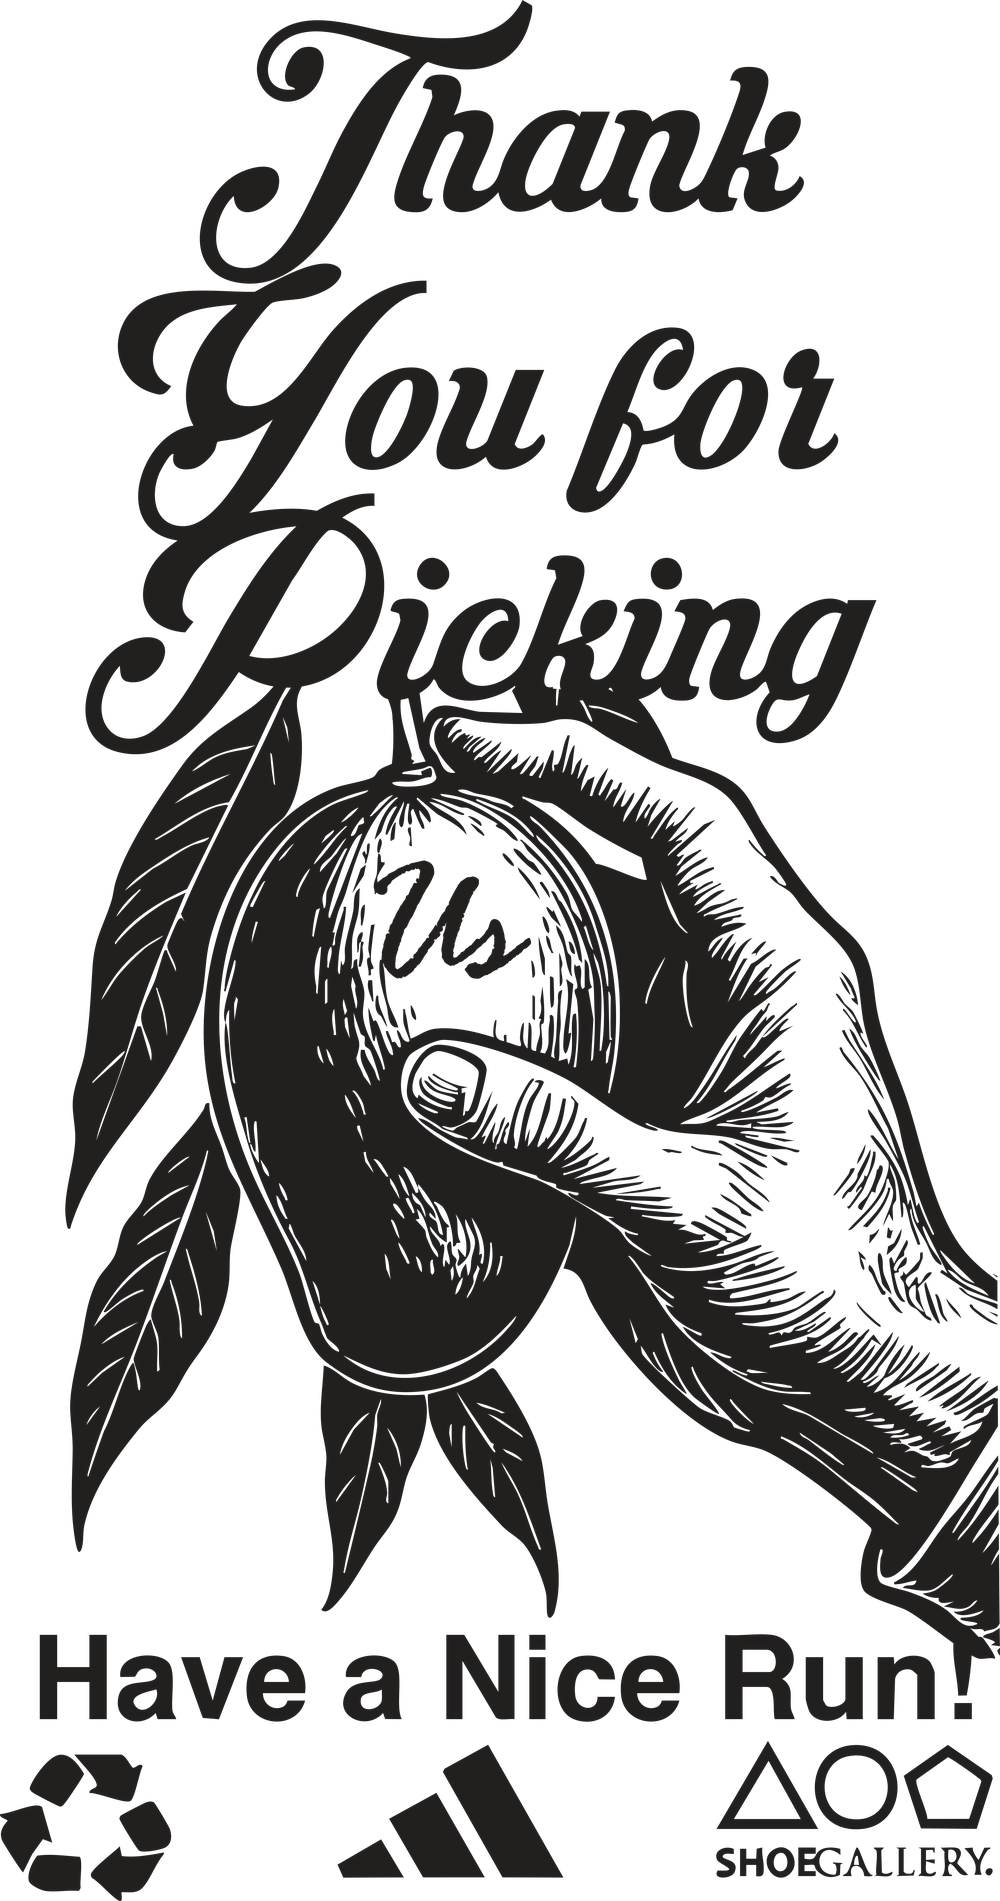
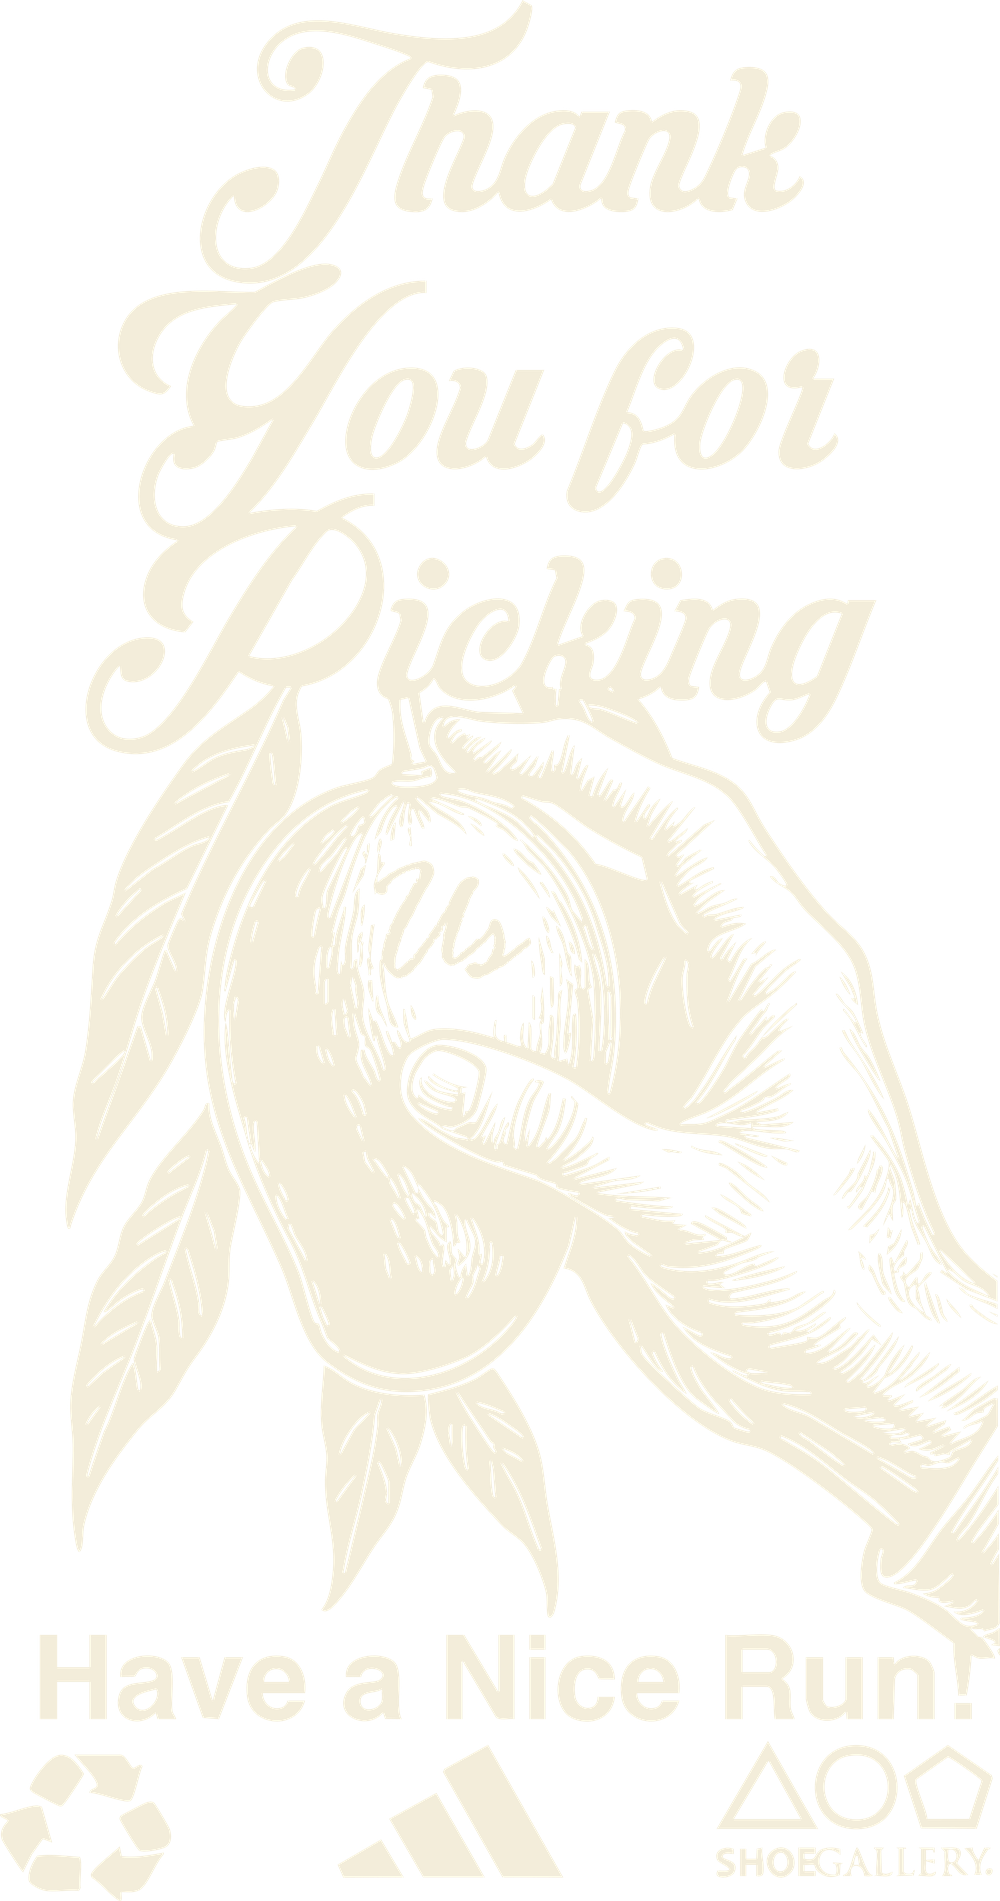
Mango sample: Thank You card in cream on black
Card art recolored to CREAM WHITE A0TP and the cream paper panel dropped, so
it sits directly on the black like the lockup and the wordmark.

diff --git a/mango/index.html b/mango/index.html
@@ -101,8 +101,7 @@ button[aria-pressed=true]{background:#2c2415;border-color:var(--acc);color:var(-
 
 .mango{width:100%;max-width:150px;display:block;margin:0 auto}
 .boxgrid{margin-top:16px}
-.panel.paper{background:#F2EDE0;border-color:#d8d2c2;display:flex;align-items:center;
- justify-content:center;padding:26px 20px}
+.panel.tywrap{display:flex;align-items:center;justify-content:center;padding:26px 20px}
 .tycard{width:100%;max-width:250px;height:auto;display:block}
 .boxcopy{font-size:13.5px;color:#c3c3c8;margin:0 0 12px}
 .boxgrid .row b{font-family:"Arial Black",Helvetica,Arial,sans-serif;font-size:11px;
@@ -223,7 +222,7 @@ button[aria-pressed=true]{background:#2c2415;border-color:var(--acc);color:var(-
   </div>
 
   <div class="grid boxgrid">
-    <div class="panel paper">
+    <div class="panel tywrap">
       <img class="tycard" src="thankyou.png" alt="Thank You for Picking Us card">
     </div>
     <div class="panel">
